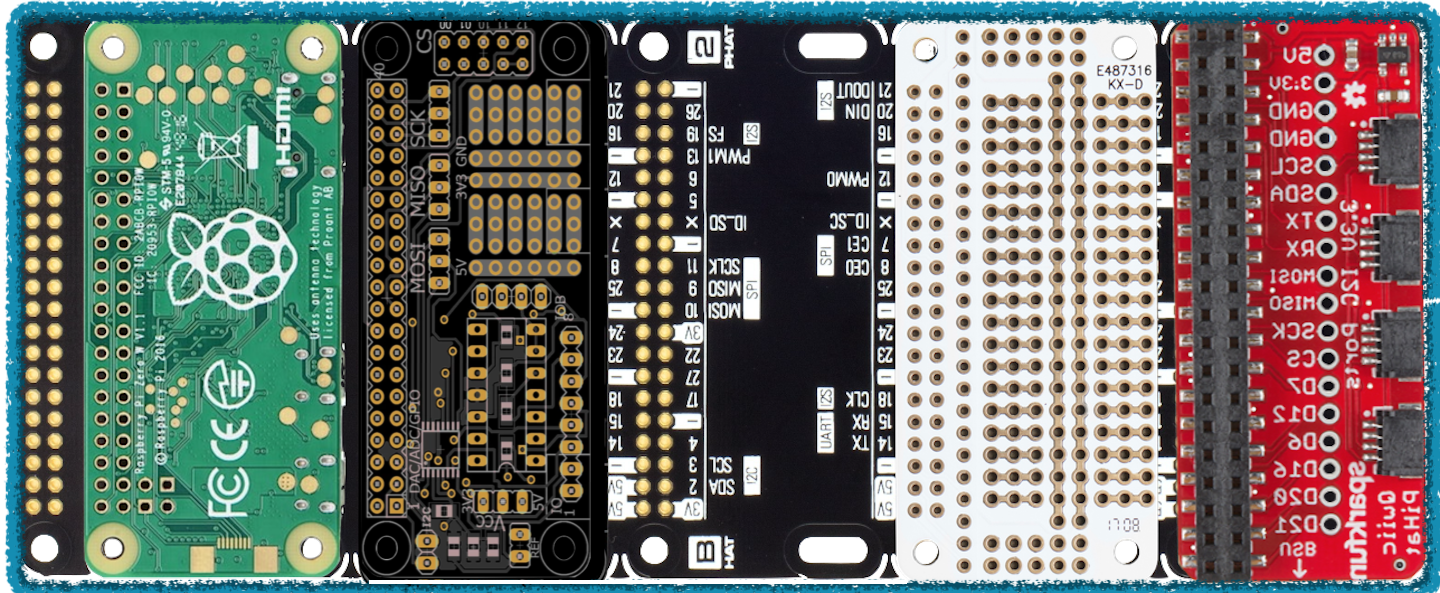
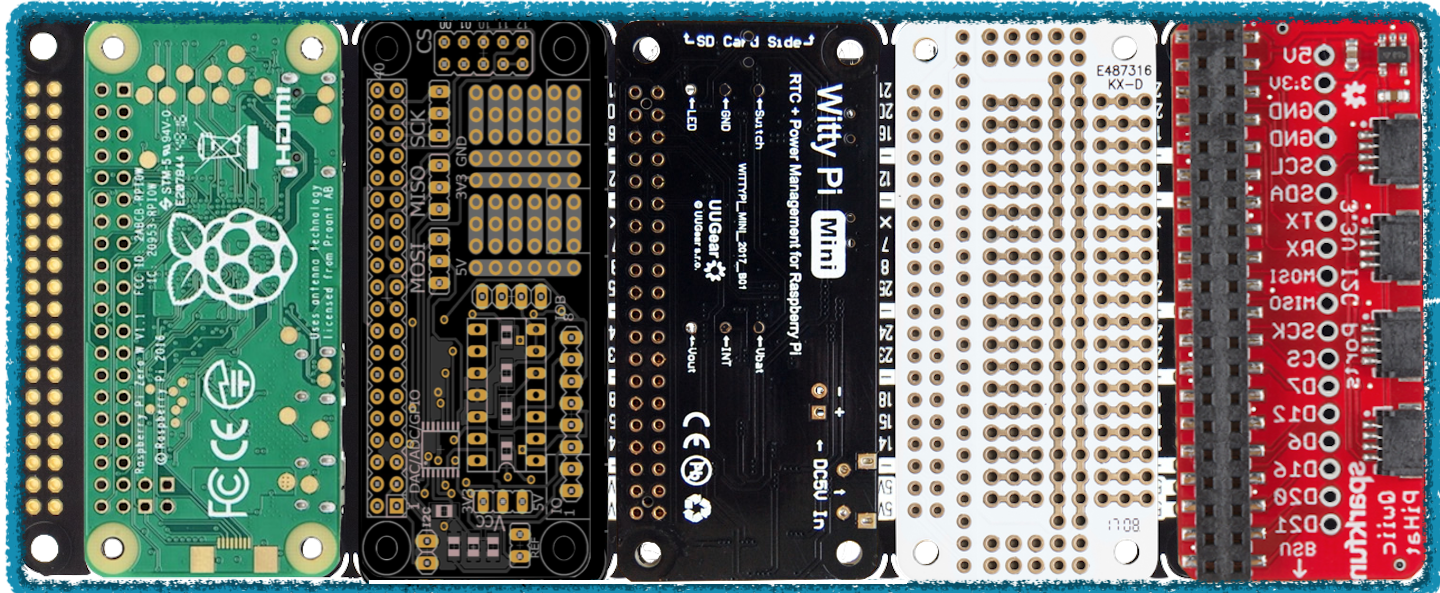
..

Changed region(s): [[0.4062, 0.0304, 0.625, 1.0]]

diff --git a/README.md b/README.md
@@ -13,7 +13,7 @@ The unifying concept for the store is a new class of PC, code name--Cuban Flatbr
 
 The configuration reduces to the prototype & production tools as the prototype evolves, without significant changes to the dev-env. 
 
-The system architecture organizational concept is the utilization of shared GPIO for Hats utilizing a Pimoroni backplane in combination with the Sparkfun I2C ecology with 1mm pitch, 4-pin JST connector. The design is intended to bring the functionality of prototyping environments beyond the level of gizmos, to include all required system functionality & power, while minimzing custom work & maintaining a mobile environment. 
+The system architecture organizational concept is the utilization of shared GPIO for Hats utilizing a Pimoroni backplane in combination with the Sparkfun breakouts with 1mm pitch, 4-pin JST connector. The design is intended to bring the functionality of prototyping environments beyond the level of gizmos, to include all required system functionality & power, while minimzing custom work & maintaining a mobile environment. 
 
 Low profile, highly integrated, with minimal need for breadboarding, simplifies the initial development while consolidating the system for manageable workspaces.
 
